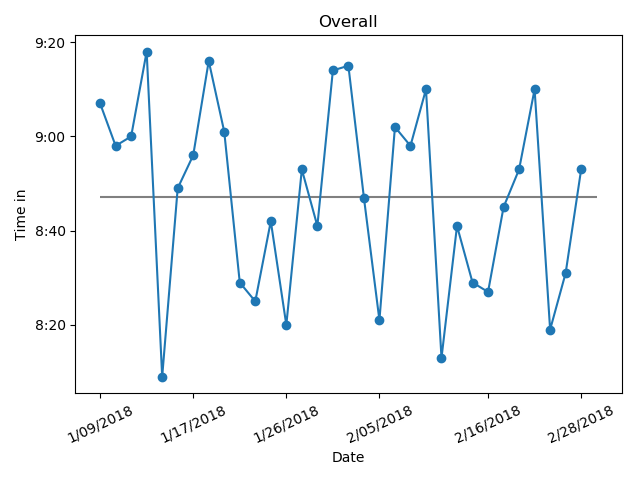
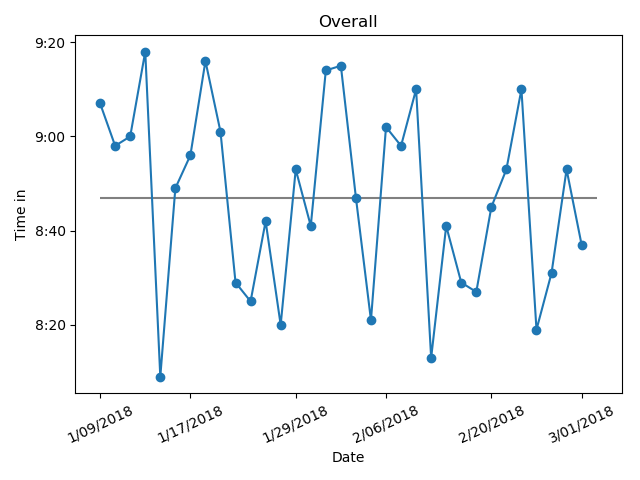
update 3/1

diff --git a/templates/index.html b/templates/index.html
@@ -59,6 +59,14 @@
         </div>
           </div>
           <div class="container">
+              <div class="row">
+              <div class="col-md-6">
+                  <h1>{{overror}}</h1>
+                </div>
+                  <div class="col-md-6">
+                      <h1>{{werror}}</h1>
+                    </div>
+                  </div>
             <div class="row">
                 <div class="col-md-6">
                     

diff --git a/app.py b/app.py
@@ -69,8 +69,8 @@ werror = 0
 for e in daydiff:
     overror += abs(daydiff[e])
 overror = overror/len(daydiff)
-for e in weekdaydiff:
-    werror += abs(weekdaydiff[e])
+for e in weekdiff:
+    werror += abs(weekdiff[e])
 werror = werror/len(daydiff)
 while k < len_dates:
     newmarks.append(int(k))
@@ -122,7 +122,7 @@ plt.xlabel("Date")
 plt.xticks(newmarks, ndates, rotation = 25)
 plt.hlines(y=0, xmin=0, xmax=len(df), color="grey")
 plt.tight_layout()
-plt.savefig("static/weekdaydiff.png")
+plt.savefig("stati.png")
 
 
 
@@ -130,7 +130,7 @@ plt.savefig("static/weekdaydiff.png")
 # # Home route
 @app.route("/")
 def home():
-    return render_template("index.html", dfd=df, avg = "Current Average: "+avg)
+    return render_template("index.html", dfd=df, avg = "Current Average: "+avg, overror = "Mean Error: "+str(overror)[:5], werror = "Mean Weekday Error: "+str(werror)[:5])
 
 if __name__ == '__main__':
     app.run(debug=False)

diff --git a/pjeej.py b/pjeej.py
@@ -36,6 +36,7 @@ with open("timein.csv","a",newline="") as csvfile:
 	# writer.writerow(["2/26/2018","Monday","8:19", "45"]) #[11]
 	# writer.writerow(["2/27/2018","Tuesday","8:31", "35"])
 	# writer.writerow(["2/28/2018","Wednesday","8:53", "45"])
+	# writer.writerow(["3/01/2018","Thursday","8:37", "45"])
 # [1] according to him, left at 8:30 night before 1/12/2018
 # [2] came in before I did 1/15
 # [3] did not check temperature until 9:50 1/15
